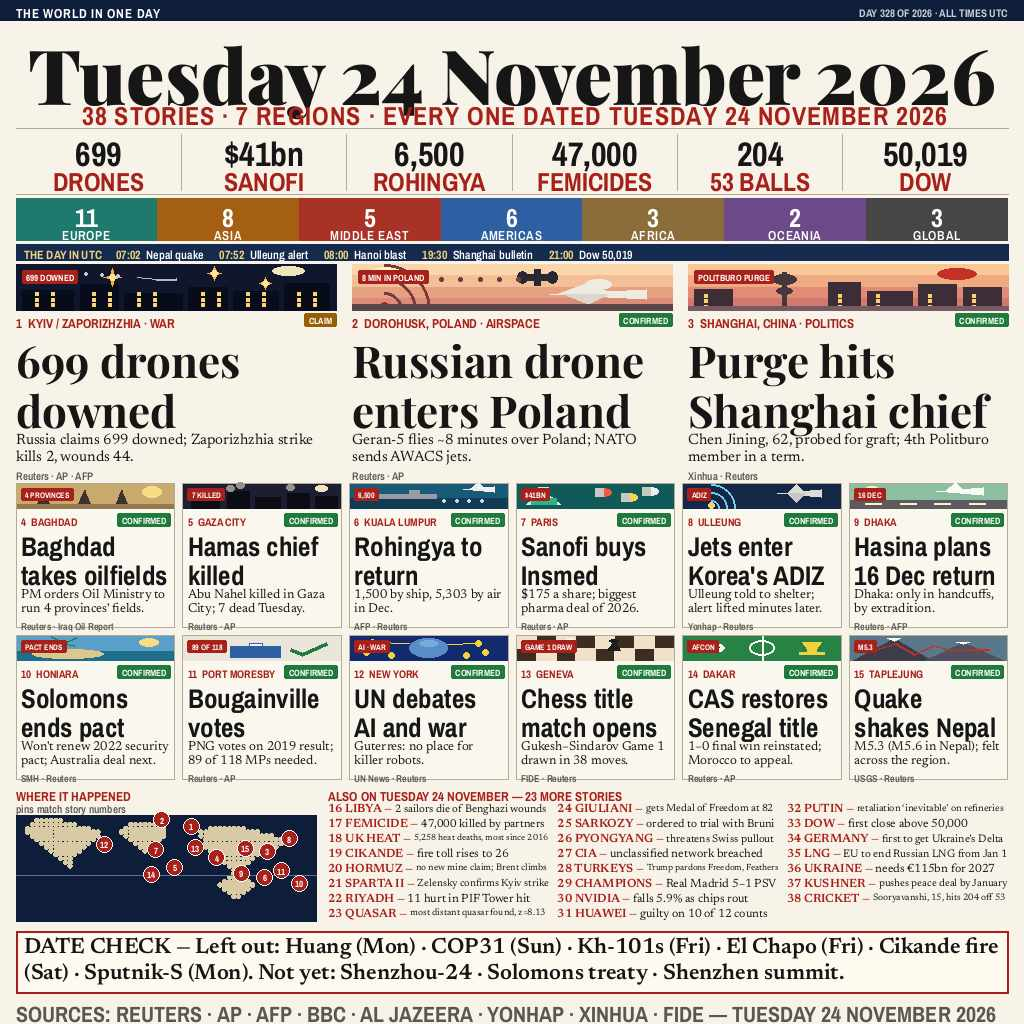
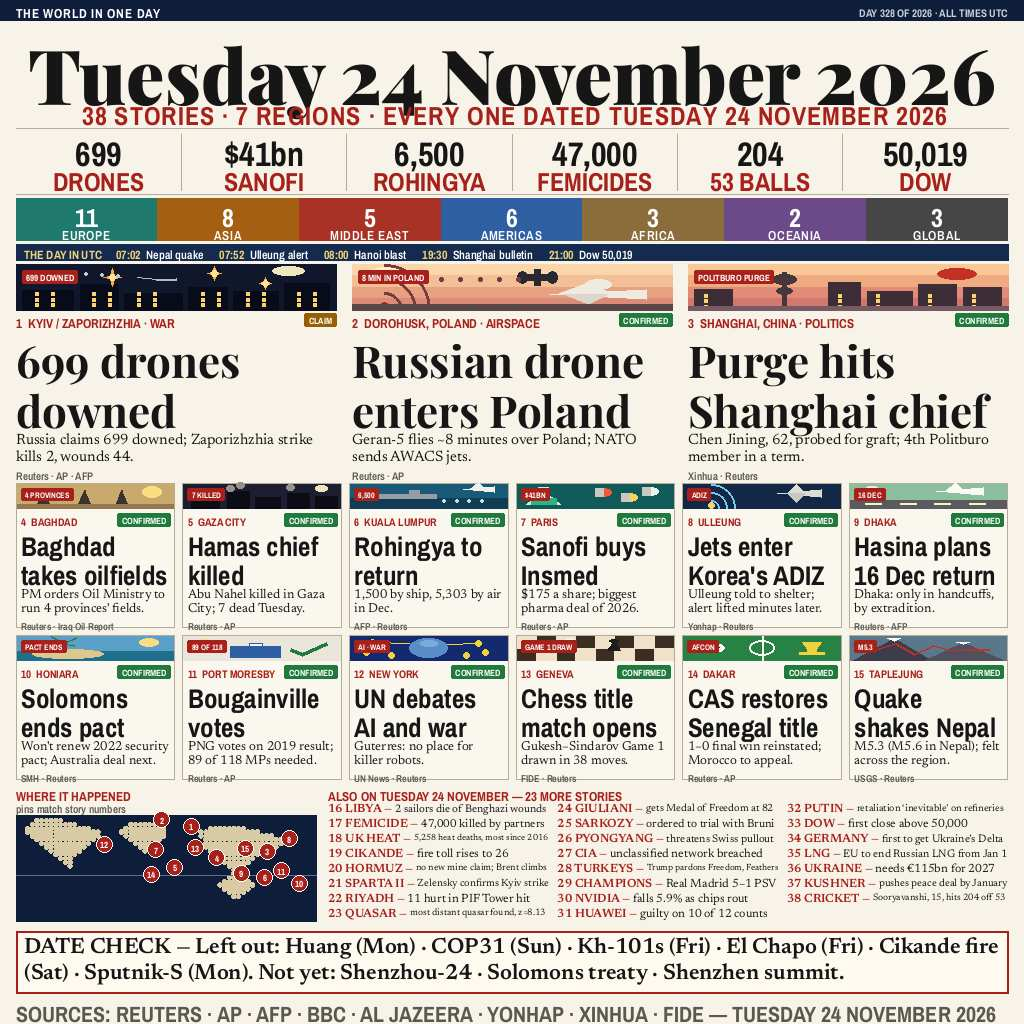
news-image-20261124 v3: re-render image at JPEG quality 55
Slot 3 (final slot). Only change vs v1/v2: JPEG quality 45 -> 55
(JPEG_QUALITY constant in compose.py). Content, layout, text and
main.py untouched. New image: 201,183 bytes, 1024x1024, deterministic
across two rebuilds, sha256 08613b04228b2f142fee9de4cc9da214ab173d915b75053691d601b907e3a335.

diff --git a/compose.py b/compose.py
@@ -6,6 +6,10 @@ with PIL (local build only; main.py is stdlib-only and only copies the
 committed image). Flat vector illustration only: no photos, no recognisable
 faces, no hands. Every word is renderer-typeset.
 
+v3 (slot 3, Wed 2026-11-25 19:56 WIB): re-rendered at JPEG quality 55
+(JPEG_QUALITY) — the only change vs v1/v2, whose image was q45. Content,
+layout, text and main.py are untouched.
+
 Typography (per ~/workspace/makefun/typography-study.md): Playfair Display
 Black/Bold for the date and lead headlines; Archivo Narrow 600/700 for
 cards, labels and ALL figure strips (tabular digits, x-height 0.526);
@@ -58,6 +62,8 @@ HERE = os.path.dirname(os.path.abspath(__file__))
 FONTS = os.path.join(HERE, "fonts")
 
 W, H = 1024, 1024
+JPEG_QUALITY = 55  # v3 re-render: q55 (v1/v2 image was q45); higher quality,
+# still well under the 1,048,576-byte cap.
 CREAM = (247, 243, 232)
 PAPER = (250, 247, 238)
 NAVY = (14, 30, 58)
@@ -681,7 +687,7 @@ def check_pins(box):
     return worst
 
 
-def build(quality=55):
+def build(quality=JPEG_QUALITY):
     img = Image.new("RGB", (W, H), CREAM)
     d = ImageDraw.Draw(img)
 
@@ -855,5 +861,5 @@ def build(quality=55):
 
 
 if __name__ == "__main__":
-    q = int(sys.argv[1]) if len(sys.argv) > 1 else 55
+    q = int(sys.argv[1]) if len(sys.argv) > 1 else JPEG_QUALITY
     build(q)
